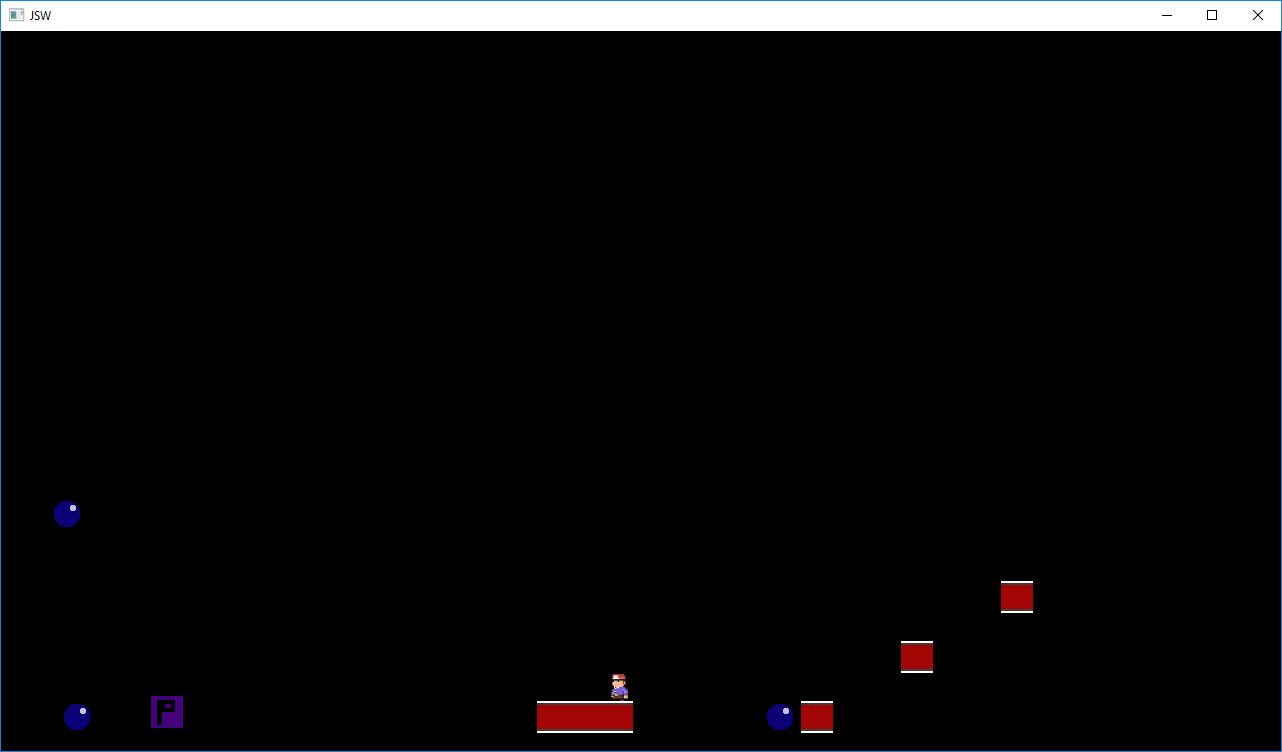
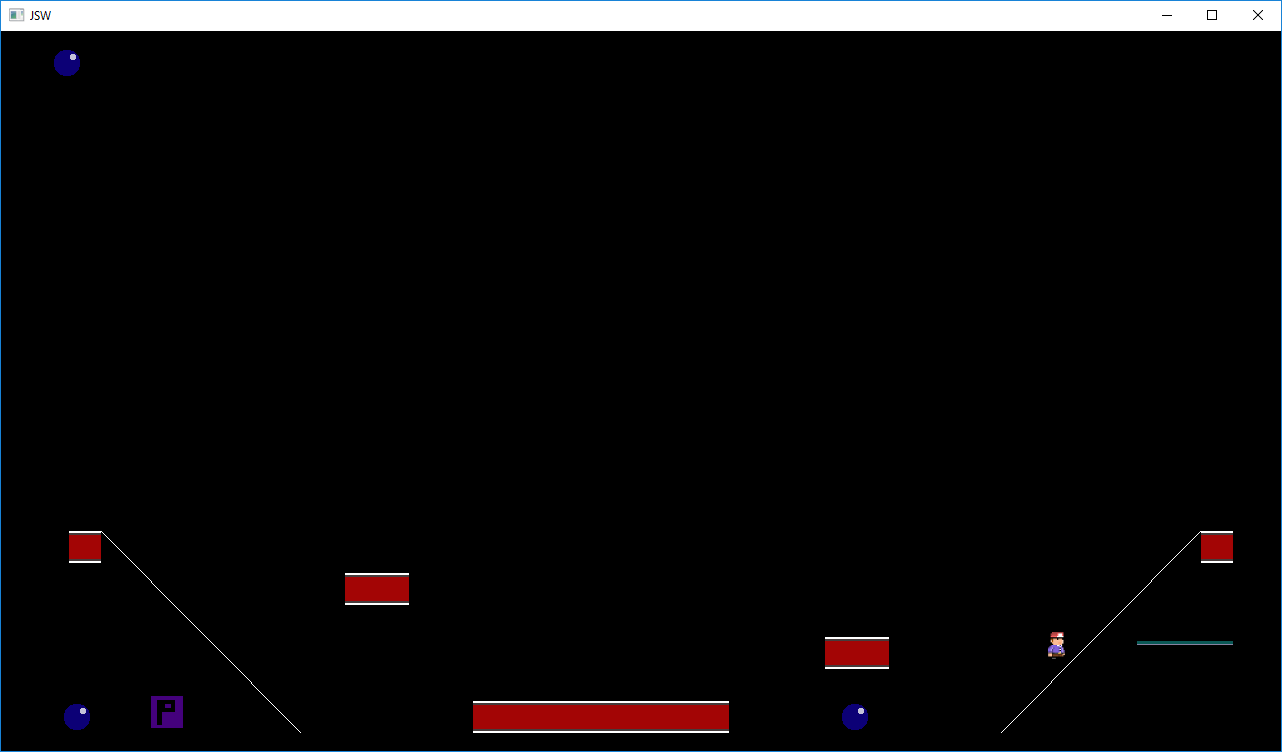
Add files via upload
Added stair support in both directions using trig and distance calculations.  Commit prior to a large refactor, removing duplicate code and implementing support which is compatible with the current system.

diff --git a/Player.cpp b/Player.cpp
@@ -30,6 +30,7 @@ void Player::update(float dt) {
 	if (isJumping) {
 		jump(dt, currentSpeed);	
 		onStairsLeft = false;
+		onStairsRight = false;
 		topStairs = false;
 	}
 
@@ -72,7 +73,9 @@ void Player::moveHorizontal(float dt, float speed) {
 		
 	if (!isJumping) {		
 		if (onStairsLeft)			
-			m_sprite.move(sf::Vector2f(verticalSpeed * speed * dt, verticalSpeed * -speed * dt));		
+			m_sprite.move(sf::Vector2f(verticalSpeed * speed * dt, verticalSpeed * speed * dt));
+		else if (onStairsRight)
+			m_sprite.move(sf::Vector2f(verticalSpeed * speed * dt, verticalSpeed * -speed * dt));
 		else
 			m_sprite.move(sf::Vector2f(speed * dt, 0.0));
 
@@ -163,7 +166,7 @@ void Player::collision(char c, float gh) {
 		fallCheck();
 		break;	 
 	case NO_COLLISION:
-		if (!onStairsLeft) {
+		if (!onStairsLeft &&!onStairsRight) {
 			collideLeft = false;
 			collideRight = false;
 
@@ -223,11 +226,17 @@ void Player::collisionEntity(bool isHarmful) {
 void Player::checkStairs() {
 
 	float pixelOffset = 6.0f;
-	if (onStairsLeft) {
+	if (onStairsLeft) {	
 		if (m_sprite.getPosition().x >= currentStairsBottom.x + pixelOffset) {
 			onStairsLeft = false;
+		}	
+	}  	
+	else if (onStairsRight) {
+		if (m_sprite.getPosition().x <= currentStairsBottom.x - 32) { // TODO: Pixel size
+			onStairsRight = false;
 		}
 	}
+
 	else if (topStairs) {  		
 		if (m_sprite.getPosition().x <= currentStairsTop.x - pixelOffset) {
 			// *hack* fakes a tiny jump so we land back on the block - stops a weird wobble
@@ -237,17 +246,17 @@ void Player::checkStairs() {
 		}
 	}
 
-	else {
+	else if (!onStairsLeft && !onStairsRight) {
 		currentStairsBottom = sf::Vector2f(0, 0);
 		currentStairsTop = sf::Vector2f(0, 0);
 		verticalSpeed = 0.0f;
 	}
 }
 
-void Player::calculateVerticalSpeed(float angle, float distance) {		
-	verticalSpeed = std::fabs(std::sin(angle) * distance);	
-	std::cout << verticalSpeed;
+void Player::calculateVerticalSpeed(float distance, float angle) {
+	verticalSpeed = angle * distance;
 }
+
 
 void Player::onStairs(sf::Vector2f bottom, sf::Vector2f top, bool onStairsBottom, bool onStairsTop, bool isStairsLeft)
 {
@@ -257,33 +266,36 @@ void Player::onStairs(sf::Vector2f bottom, sf::Vector2f top, bool onStairsBottom
 			onStairsLeft = true;
 			currentStairsBottom = bottom;
 			currentStairsTop = top;
-
 			// get the angle and distance between 2 points. Divides distance by 100 to speed the player up vertically
 			float angle = std::fabs(atan2(top.y - bottom.y, top.x - bottom.x) * 180 / PI);
-			float distance = std::fabs(std::sqrt(std::pow(bottom.x - top.x, 2) + std::pow(bottom.y - top.y, 2))) / 100;			
-			
-			calculateVerticalSpeed(angle, distance);
+			float distance = std::fabs(std::sqrt(std::pow(bottom.x - top.x, 2) + std::pow(bottom.y - top.y, 2))) / 100;						
+			calculateVerticalSpeed(distance, std::sin(angle));
 		}
 
-		if (onStairsLeft && onStairsTop) {
+		if (onStairsLeft && onStairsTop) { 			
 			topStairs = true;
 			onStairsLeft = false;
 			verticalSpeed = 0.0f;
 		}
 	}
-	else {
-		if (!onStairsLeft && onStairsBottom) {
+
+	else {		
+		if (!onStairsRight && onStairsBottom) {
 			topStairs = false;
-			onStairsLeft = true;
+			onStairsRight = true;
 			currentStairsBottom = bottom;
 			currentStairsTop = top;
 			float angle = std::fabs(atan2(top.y - bottom.y, top.x - bottom.x) * 180 / PI);
-			std::cout << "angle " << angle << std::endl;
 			float distance = std::sqrt(std::pow(bottom.x - top.x, 2) + std::pow(bottom.y - top.y, 2)) / 100;			
-			calculateVerticalSpeed(angle, distance);			
+			calculateVerticalSpeed(distance, std::cos(angle));			
+		}
+
+		if (onStairsRight && onStairsTop) {
+			topStairs = true;
+			onStairsRight = false;
+			verticalSpeed = 0.0f;
 		}
 	}
-
 }
 
 

diff --git a/Collision.cpp b/Collision.cpp
@@ -74,29 +74,40 @@ bool Collision::checkCollision() {
 }
 
 // stairs
-void Collision::testCollisionStairs(sf::Vector2f bottom, sf::Vector2f top, std::function<void(sf::Vector2f b, sf::Vector2f t, bool onStairsTop, bool onStairsBottom, bool isStairsLeft)> playerCheckStairs, bool isLeft)
-{	
-	if (isLeft) {
-		if (playerLeft >= bottom.x && playerLeft <= bottom.x + 5
-			&& playerBottom + 32 == bottom.y) {
-			playerCheckStairs(bottom, top, true, false, true);
-		}
-
-		else if (playerLeft <= top.x && playerBottom <= top.y - 32) {
-			playerCheckStairs(bottom, top, false, true, true);
-		}
-
-		else if (playerRight >= top.x && playerBottom <= top.y) {
-			playerCheckStairs(bottom, top, true, false, true);
-		}
-	}
-	else {
-		if (playerRight >= bottom.x && playerRight <= bottom.x + 5
-			&& playerBottom + 32 == bottom.y) {
-			playerCheckStairs(bottom, top, true, false, false);
-		}
+void Collision::testCollisionStairs(sf::Vector2f bottom, sf::Vector2f top, std::function<void(sf::Vector2f b, sf::Vector2f t, bool onStairsTop, bool onStairsBottom, bool isStairsLeft)> playerCheckStairs)
+{
+	float distanceTop = std::fabs(std::sqrt(std::pow(top.x - playerLeft, 2) + std::pow(top.x - playerRight, 2)));
+	
+	if (playerLeft >= bottom.x && playerLeft <= bottom.x + 5
+		&& playerBottom + 32 == bottom.y) {
+		playerCheckStairs(bottom, top, true, false, true);
 	}
 
+	else if (playerLeft <= top.x && playerBottom <= top.y - 32 && distanceTop < 200) {
+		playerCheckStairs(bottom, top, false, true, true);
+	}
+
+	else if (playerRight >= top.x && playerBottom <= top.y && distanceTop < 200) {
+		playerCheckStairs(bottom, top, true, false, true);
+	}
+
+}
+
+void Collision::testCollisionStairs(sf::Vector2f bottom, sf::Vector2f top, std::function<void(sf::Vector2f b, sf::Vector2f t, bool onStairsBottom, bool onStairsTop, bool isStairsLeft)> playerCheckStairs, char left)
+{
+	float distanceTop = std::fabs(std::sqrt(std::pow(top.x - playerRight, 2) + std::pow(top.x - playerLeft, 2)));
+	
+	if (playerRight >= bottom.x && playerRight <= bottom.x + 5
+		&& playerBottom + 32 == bottom.y) {
+		playerCheckStairs(bottom, top, true, false, false);
+	}
+	else if (playerRight >= top.x && playerBottom <= top.y - 32 && distanceTop < 200) {
+		playerCheckStairs(bottom, top, false, true, false);		
+	} 
+
+	else if (playerLeft <= top.x && playerBottom <= top.y && distanceTop < 200) {
+		playerCheckStairs(bottom, top, true, false, false);
+	}	
 }
 	 
 // check static blocks

diff --git a/Main.cpp b/Main.cpp
@@ -216,16 +216,16 @@ int main() {
 		clock.restart().asSeconds();
 
 		update(player, collision, time.asMilliseconds());
-		//update(enemiesMoving, collision, player, time.asMilliseconds());
-		//update(enemiesStatic, collision, player, time.asMilliseconds());
+		update(enemiesMoving, collision, player, time.asMilliseconds());
+		update(enemiesStatic, collision, player, time.asMilliseconds());
 		update(pickups, collision, player, time.asMilliseconds());
 
 		// test code 
 		collision->testCollisionStairs(stairTest.getBottomStair(), stairTest.getTopStair(), 
-			([&](sf::Vector2f b, sf::Vector2f t, bool c, bool d, bool e) { player->onStairs(b, t, c, d, e); }), stairTest.isLeft);
+			([&](sf::Vector2f b, sf::Vector2f t, bool c, bool d, bool e) { player->onStairs(b, t, c, d, e); }));
 
 		collision->testCollisionStairs(stairTestRight.getBottomStair(), stairTestRight.getTopStair(),
-			([&](sf::Vector2f b, sf::Vector2f t, bool c, bool d, bool e) { player->onStairs(b, t, c, d, e); }), stairTestRight.isLeft);
+			([&](sf::Vector2f b, sf::Vector2f t, bool c, bool d, bool e) { player->onStairs(b, t, c, d, e); }), 'a');
 
 
 

diff --git a/Collision.h b/Collision.h
@@ -52,6 +52,7 @@ public:
 	void checkCollision(std::function<void(char c, float i)> playerCollision);
 	bool checkCollision();
 
-	void testCollisionStairs(sf::Vector2f bottom, sf::Vector2f top, std::function<void(sf::Vector2f b, sf::Vector2f t, bool onStairsBottom, bool onStairsTop, bool isStairsLeft)> playerCheckStairs, bool isLeft);
+	void testCollisionStairs(sf::Vector2f bottom, sf::Vector2f top, std::function<void(sf::Vector2f b, sf::Vector2f t, bool onStairsBottom, bool onStairsTop, bool isStairsLeft)> playerCheckStairs);
+	void testCollisionStairs(sf::Vector2f bottom, sf::Vector2f top, std::function<void(sf::Vector2f b, sf::Vector2f t, bool onStairsBottom, bool onStairsTop, bool isStairsLeft)> playerCheckStairs, char left);
 };
 

diff --git a/Player.h b/Player.h
@@ -2,7 +2,7 @@
 #include "Sprite.h"
 #include "PlayerInput.h"
 #include "PlayerState.h"
-#include <math.h>
+#include <cmath>
 
 #define PI 3.141
 
@@ -48,7 +48,10 @@ private:
 	sf::Vector2f currentStairsTop;
 
 	void checkStairs();
-	void calculateVerticalSpeed(float angle, float distance);
+	
+
+	void calculateVerticalSpeed(float distance, float angle);
+															 
 	float horiztonalSpeed = 1.0f;
 
 	bool topStairs = false;

diff --git a/StairTest.cpp b/StairTest.cpp
@@ -9,7 +9,7 @@ StairTest::StairTest(bool isLeft, sf::Vector2f bottom, sf::Vector2f top) : isLef
 StairTest::~StairTest()	{}
 
 void StairTest::testVerticies(sf::Vector2f bottom, sf::Vector2f top) {
-	sf::VertexArray testPoints(sf::Points, 2);
+	sf::VertexArray testPoints(sf::LinesStrip, 2);
 	testPoints[0].position = bottom;
 	testPoints[1].position = top;
 	va = testPoints;
